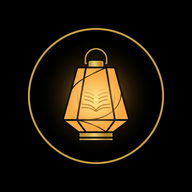
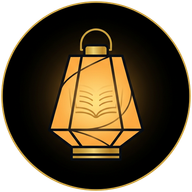
fix: 修复由 AI 生图导致的假透明(马赛克)标志背景问题

diff --git a/scripts/fix-logo.js b/scripts/fix-logo.js
@@ -1,0 +1,47 @@
+const sharp = require('sharp');
+const path = require('path');
+const fs = require('fs');
+
+const src = 'C:/Users/jiank/.gemini/antigravity/brain/8f364737-807e-45a9-86c7-9f4805ea4632/round_1.png';
+const pubDir = 'C:/antigravity/LanternELL/public/images';
+
+async function extractCircle() {
+    const image = sharp(src);
+
+    // 1. 去除周围的黑边框，保留中间的圆形主体
+    const trimmed = await image.trim({ threshold: 20 }).toBuffer();
+    const trimmedMeta = await sharp(trimmed).metadata();
+
+    // 取最短边进行正方形切割，确保完美圆形
+    const size = Math.min(trimmedMeta.width, trimmedMeta.height);
+
+    // 2. 创建一个等大的圆形 SVG 遮罩 (向内收缩 2 像素避免任何黑边残留)
+    const circleSvg = `<svg width="${size}" height="${size}"><circle cx="${size / 2}" cy="${size / 2}" r="${(size / 2) - 3}" fill="white"/></svg>`;
+
+    // 3. 应用遮罩，挖出带完美透明边缘的圆形 Logo
+    const circularImage = await sharp(trimmed)
+        .resize(size, size, { fit: 'cover' })
+        .composite([{
+            input: Buffer.from(circleSvg),
+            blend: 'dest-in'
+        }])
+        .png()
+        .toBuffer();
+
+    // 4. 生成不同尺寸并覆盖原有的伪透明图片
+    await sharp(circularImage).resize(200, 200).webp({ quality: 95 }).toFile(path.join(pubDir, 'logo.webp'));
+
+    await sharp(circularImage).resize(32, 32).png().toFile('C:/antigravity/LanternELL/public/favicon-32.png');
+    await sharp(circularImage).resize(16, 16).png().toFile('C:/antigravity/LanternELL/public/favicon-16.png');
+    await sharp(circularImage).resize(180, 180).png().toFile('C:/antigravity/LanternELL/public/apple-touch-icon.png');
+    await sharp(circularImage).resize(192, 192).png().toFile('C:/antigravity/LanternELL/public/android-chrome-192.png');
+    await sharp(circularImage).resize(512, 512).png().toFile('C:/antigravity/LanternELL/public/android-chrome-512.png');
+    await sharp(circularImage).resize(400, 400).webp({ quality: 90 }).toFile(path.join(pubDir, 'logo-og.webp'));
+
+    // Favicon.ico
+    await sharp(circularImage).resize(32, 32).toFormat('png').toFile('C:/antigravity/LanternELL/public/favicon.ico');
+
+    console.log('Logo perfectly extracted and transparent favicons regenerated!');
+}
+
+extractCircle().catch(console.error);
